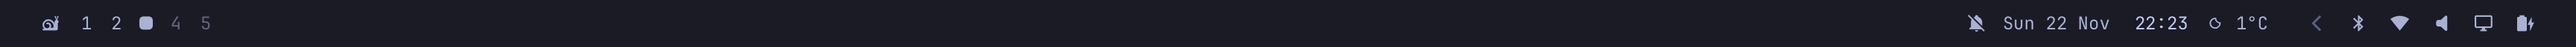
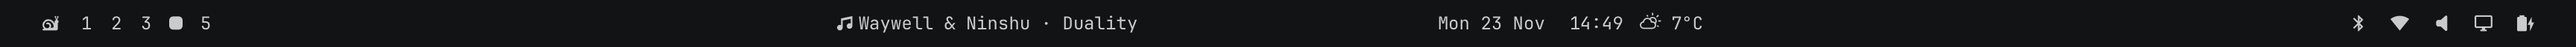
Show the gary-plugins desktop in the README: the current bar and the theme picker up top, and a gallery of its clipboard, capture menu, audio, power, calendar, now playing, weather and focus timer, in place of the old audio and main menu shots

diff --git a/README.md b/README.md
@@ -10,12 +10,9 @@ A macOS shell you write in TypeScript. Or that your agent writes for you.
 curl -fsSL https://raw.githubusercontent.com/sndrgrdn/gary/main/scripts/install.sh | sh
 ```
 
-![A Gary bar with workspaces on the left, the date, time, and weather in the middle, and Bluetooth, Wi-Fi, audio, display, and battery icons on the right](docs/images/bar.png)
+![A Gary bar with workspaces on the left, the playing track, the date, time, and weather in the middle, and Bluetooth, Wi-Fi, audio, display, and battery icons on the right](docs/images/bar.png)
 
-<p>
-  <img alt="An audio menu with output and input volume sliders and devices" src="docs/images/audio-menu.png" width="320">
-  <img alt="A keyboard-driven main menu with screenshot, record, text, QR code, and color entries" src="docs/images/main-menu.png" width="280">
-</p>
+![A theme picker over a wallpaper, with the selected Omarchy theme's preview in the middle, the other themes as slices on both sides, and its name below](docs/images/theme-picker.jpg)
 
 Gary draws a bar along the top of each display, plus panels, overlays, menus, and background services. Every pixel of it comes from a plugin: one you wrote, one you installed, or one you asked an agent for five minutes ago. The screenshots show [sndrgrdn/gary-plugins](https://github.com/sndrgrdn/gary-plugins), an Omarchy-style desktop built on Gary.
 
@@ -39,6 +36,29 @@ Set up Gary, the macOS shell from https://github.com/sndrgrdn/gary, on this Mac.
 ```
 
 Agents are first-class here. The `gary` command clicks, types, hovers, and scrolls in a plugin, prints its node tree, and captures it as a PNG, so your agent sees what it built instead of guessing. `gary skill setup` installs a small skill into `~/.claude/skills` and `~/.agents/skills`, and `gary skill show` prints the guide for the exact version you run.
+
+## What it looks like
+
+Everything below is a plugin from [sndrgrdn/gary-plugins](https://github.com/sndrgrdn/gary-plugins), installable with one command.
+
+<p>
+  <img alt="A clipboard history menu with a link, a note, a color, and a file path, each with how long ago it was copied" src="docs/images/clipboard.png" height="220">
+  <img alt="A keyboard-driven capture menu with screenshot, record, text, QR code, and color entries" src="docs/images/menu.png" height="220">
+</p>
+
+<p>
+  <img alt="An audio panel with output and input volume sliders, devices, and a per-app volume for Music" src="docs/images/audio.png" height="260">
+  <img alt="A power panel with the battery level, health, charge cycles, discharge rate, CPU, and memory" src="docs/images/power.png" height="260">
+  <img alt="A month calendar with today marked and today's all-day event below" src="docs/images/clock.png" height="260">
+</p>
+
+<p>
+  <img alt="A now playing panel with album artwork, a seek bar, and playback controls" src="docs/images/now-playing.png" height="150">
+  <img alt="A weather panel with the current temperature and a 12-hour forecast curve" src="docs/images/weather.png" height="150">
+  <img alt="A focus timer panel with a countdown ring and Focus and Break buttons" src="docs/images/focus-timer.png" height="150">
+</p>
+
+There is more: Wi-Fi and Bluetooth panels, a fuzzy app launcher that also does calculations and conversions, a Hyper key, an on-screen display for volume and brightness, a drawer for other apps' menu bar icons, and the workspaces of the [dinky](https://github.com/mikker/dinky) window manager.
 
 ## Why Gary
 
